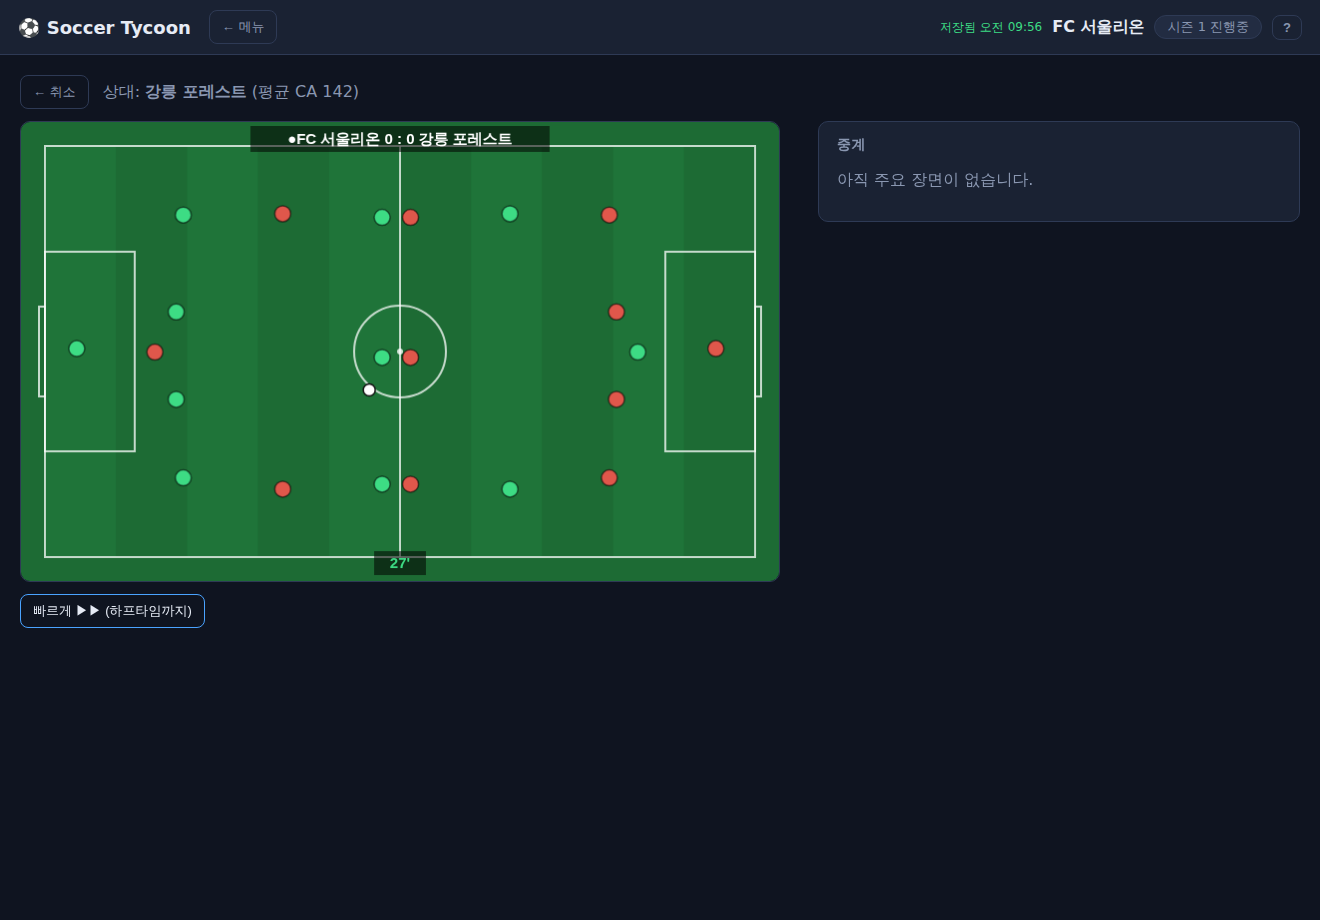
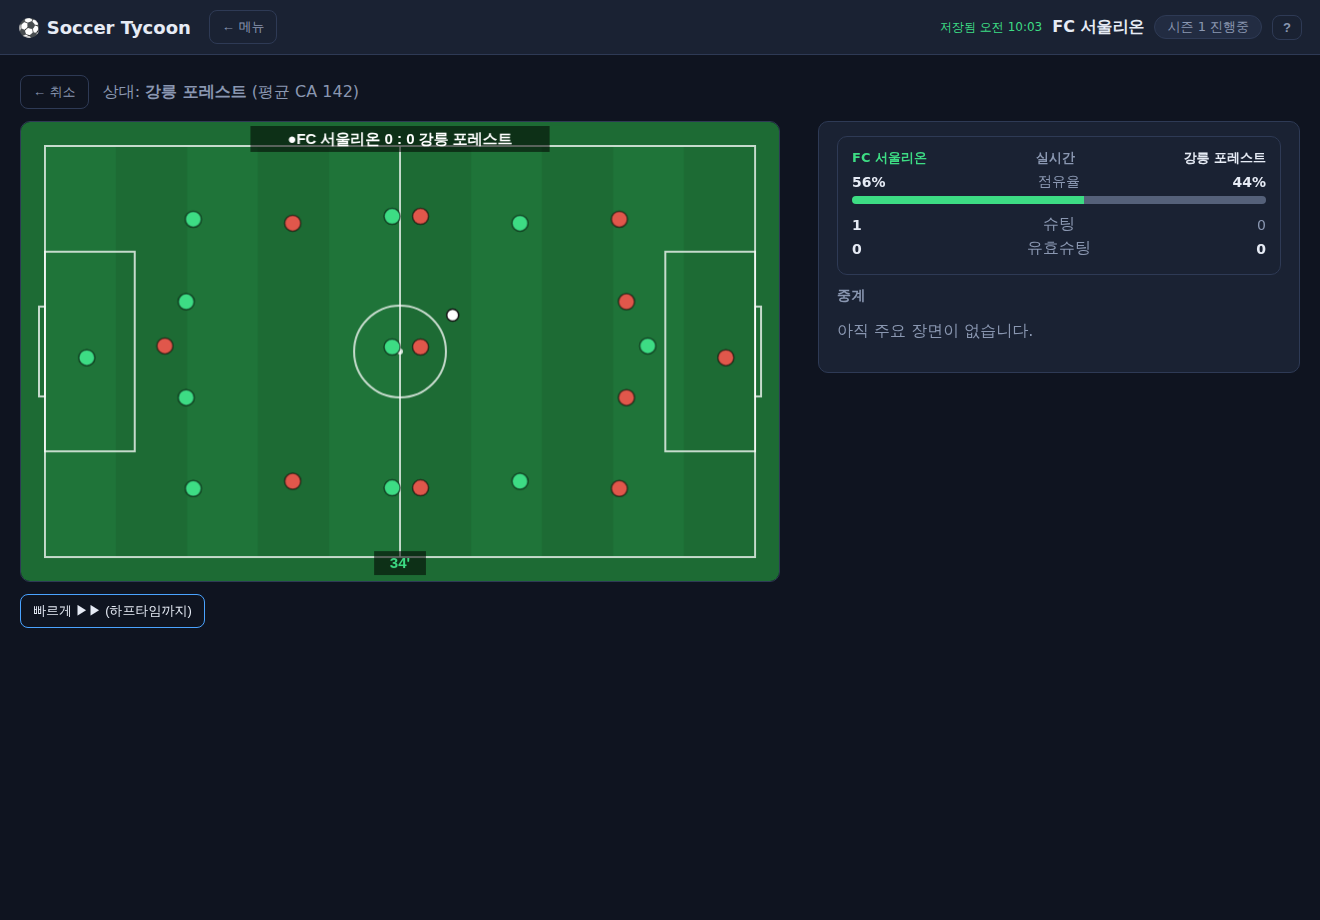
feat: 관전 중 실시간 경기 통계 패널
경기 관전 화면에 점유율·슈팅·유효슈팅 실시간 통계를 추가해
2D 뷰·프리뷰와 함께 관전 경험을 완성한다.

- engine/liveMatch: LiveMatch.stats() → LiveStats(점유율·슈팅·유효슈팅[골+선방]).
  진행 중 언제든 호출 가능. 종료 시 최종 MatchResult와 일치.
  liveMatch.test.ts에 불변식 테스트 추가(점유율 합 100·유효≤슈팅·최종 일치).
- app/WatchMatch: 매 분 stats() 갱신 → LiveStatsPanel(내 팀 강조 점유율 막대 +
  슈팅/유효슈팅 대결). 진행·하프타임 페이즈에 표시.
- README·design 문서 + 2D 관전 스크린샷 갱신.

engine 98 / app 8 / desktop 4 테스트 통과.

Claude-Session: https://claude.ai/code/session_0117rzD5JcoktrsoA8fWGnDA

diff --git a/packages/app/src/components/WatchMatch.tsx b/packages/app/src/components/WatchMatch.tsx
@@ -1,7 +1,7 @@
 import { useEffect, useRef, useState } from 'react';
 import {
   LiveMatch, HALF_TIME, MATCH_LENGTH, currentAbility,
-  type Club, type Tactic, type MatchEvent, type MatchResult,
+  type Club, type Tactic, type MatchEvent, type MatchResult, type LiveStats,
 } from '@soccer-tycoon/engine';
 import type { WatchSetup, MatchPreview as MatchPreviewData } from '../game.js';
 import { Tactics } from './Tactics.js';
@@ -46,6 +46,7 @@ export function WatchMatch({ watch, myClub, initialTactic, preview, onDone, onCa
   const [view, setView] = useState<View>({ minute: 0, score: [0, 0], ball: { x: 0.5, y: 0.5 }, goalFlash: null });
   const [feed, setFeed] = useState<MatchEvent[]>([]);
   const [tactic, setTactic] = useState<Tactic>(initialTactic);
+  const [stats, setStats] = useState<LiveStats>({ possession: [50, 50], shots: [0, 0], shotsOnTarget: [0, 0] });
 
   function applyMinute(target: number, evs: MatchEvent[]) {
     const last = evs[evs.length - 1];
@@ -54,6 +55,7 @@ export function WatchMatch({ watch, myClub, initialTactic, preview, onDone, onCa
       ? { x: last.side === 'home' ? 0.84 : 0.16, y: 0.28 + Math.random() * 0.44 }
       : { x: 0.4 + Math.random() * 0.2, y: 0.34 + Math.random() * 0.32 };
     setView({ minute: target, score: live.score(), ball, goalFlash: goal ? goal.side : null });
+    setStats(live.stats());
     const notable = evs.filter((e) => e.outcome === 'GOAL' || e.outcome === 'SAVE');
     if (notable.length) setFeed((f) => [...notable.reverse(), ...f]);
   }
@@ -136,18 +138,53 @@ export function WatchMatch({ watch, myClub, initialTactic, preview, onDone, onCa
           ) : phase === 'halftime' ? (
             <>
               <div className="ht-banner">하프타임 — 전술을 조정할 수 있습니다</div>
+              <LiveStatsPanel stats={stats} homeName={homeName} awayName={awayName} userSide={userSide} />
               <Tactics club={myClub} tactic={tactic} onChange={setTactic} />
             </>
           ) : phase === 'fulltime' ? (
             <FullTime result={live.result()} homeName={homeName} awayName={awayName} score={view.score} myClubId={myClub.id} />
           ) : (
             <div className="commentary">
+              <LiveStatsPanel stats={stats} homeName={homeName} awayName={awayName} userSide={userSide} />
               <h3>중계</h3>
               <Feed events={feed} userSide={userSide} />
             </div>
           )}
         </div>
       </div>
+    </div>
+  );
+}
+
+function LiveStatsPanel({
+  stats, homeName, awayName, userSide,
+}: { stats: LiveStats; homeName: string; awayName: string; userSide: 'home' | 'away' }) {
+  const [hp, ap] = stats.possession;
+  const rows: { label: string; h: number; a: number }[] = [
+    { label: '슈팅', h: stats.shots[0], a: stats.shots[1] },
+    { label: '유효슈팅', h: stats.shotsOnTarget[0], a: stats.shotsOnTarget[1] },
+  ];
+  return (
+    <div className="live-stats">
+      <div className="ls-head">
+        <span className={userSide === 'home' ? 'mine' : ''}>{homeName}</span>
+        <span className="muted small">실시간</span>
+        <span className={userSide === 'away' ? 'mine' : ''}>{awayName}</span>
+      </div>
+      <div className="ls-poss-nums">
+        <b>{hp}%</b><span className="muted small">점유율</span><b>{ap}%</b>
+      </div>
+      <div className="ls-poss-bar">
+        <div className={`ls-seg ${userSide === 'home' ? 'mine' : 'opp'}`} style={{ width: `${hp}%` }} />
+        <div className={`ls-seg ${userSide === 'away' ? 'mine' : 'opp'}`} style={{ width: `${ap}%` }} />
+      </div>
+      {rows.map((r) => (
+        <div className="ls-row" key={r.label}>
+          <span className={`ls-num ${r.h >= r.a ? 'lead' : ''}`}>{r.h}</span>
+          <span className="ls-label muted small">{r.label}</span>
+          <span className={`ls-num ${r.a >= r.h ? 'lead' : ''}`}>{r.a}</span>
+        </div>
+      ))}
     </div>
   );
 }

diff --git a/packages/engine/src/liveMatch.ts b/packages/engine/src/liveMatch.ts
@@ -11,6 +11,13 @@ import type { MatchEvent, MatchResult, Tactic } from './types.js';
 
 export const HALF_TIME = Math.floor(MATCH_LENGTH / 2); // 45분
 
+/** 진행 중 실시간 팀 통계(관전 패널용). [홈, 원정]. */
+export interface LiveStats {
+  possession: [number, number];
+  shots: [number, number];
+  shotsOnTarget: [number, number];
+}
+
 export class LiveMatch {
   private ctx: MatchContext;
   private current = 0; // 진행된 분
@@ -29,6 +36,22 @@ export class LiveMatch {
 
   score(): [number, number] {
     return [this.ctx.home.goals, this.ctx.away.goals];
+  }
+
+  /** 현재까지 실시간 통계(점유율·슈팅·유효슈팅). 유효슈팅=골+선방. */
+  stats(): LiveStats {
+    const { home, away, events } = this.ctx;
+    const totalTicks = home.possessionTicks + away.possessionTicks || 1;
+    const onTarget = (side: 'home' | 'away'): number =>
+      events.filter((e) => e.side === side && (e.outcome === 'GOAL' || e.outcome === 'SAVE')).length;
+    return {
+      possession: [
+        Math.round((home.possessionTicks / totalTicks) * 100),
+        Math.round((away.possessionTicks / totalTicks) * 100),
+      ],
+      shots: [home.shots, away.shots],
+      shotsOnTarget: [onTarget('home'), onTarget('away')],
+    };
   }
 
   /** 지정 분까지 진행하고, 그 구간에 발생한 이벤트만 반환. */

diff --git a/packages/engine/test/liveMatch.test.ts b/packages/engine/test/liveMatch.test.ts
@@ -53,6 +53,24 @@ describe('LiveMatch', () => {
     expect(goals).toBe(r.score[0] + r.score[1]);
   });
 
+  it('stats(): 점유율 합 100, 유효슈팅 ≤ 슈팅, 종료 시 최종 결과와 일치', () => {
+    const live = new LiveMatch(setup(321));
+    live.runUntil(30);
+    const mid = live.stats();
+    expect(mid.possession[0] + mid.possession[1]).toBe(100);
+    expect(mid.shotsOnTarget[0]).toBeLessThanOrEqual(mid.shots[0]);
+    expect(mid.shotsOnTarget[1]).toBeLessThanOrEqual(mid.shots[1]);
+
+    live.runToEnd();
+    const end = live.stats();
+    const r = live.result();
+    expect(end.shots).toEqual(r.shots);
+    expect(end.possession).toEqual(r.possession);
+    // 유효슈팅(골+선방)은 최소한 골 수 이상
+    expect(end.shotsOnTarget[0]).toBeGreaterThanOrEqual(r.score[0]);
+    expect(end.shotsOnTarget[1]).toBeGreaterThanOrEqual(r.score[1]);
+  });
+
   it('하프타임 전술 변경은 결과를 바꾼다(공격적으로 전환 시 다른 전개)', () => {
     const base = setup(2024);
     // 기준: 변경 없음

diff --git a/packages/app/src/styles.css b/packages/app/src/styles.css
@@ -479,3 +479,18 @@ h3 { font-size: 14px; margin: 0 0 10px; color: var(--muted); text-transform: upp
   pointer-events: none;
 }
 .pv-hint { margin: 14px 0 0; }
+
+/* 실시간 경기 통계 패널 */
+.live-stats { background: var(--panel); border: 1px solid var(--line); border-radius: 10px; padding: 12px 14px; margin-bottom: 12px; }
+.ls-head { display: flex; justify-content: space-between; align-items: center; font-size: 13px; font-weight: 600; margin-bottom: 6px; }
+.ls-head .mine { color: var(--accent); }
+.ls-poss-nums { display: flex; justify-content: space-between; align-items: center; font-size: 14px; }
+.ls-poss-bar { display: flex; height: 8px; border-radius: 4px; overflow: hidden; background: var(--panel-2); margin: 5px 0 10px; }
+.ls-seg.mine { background: var(--accent); }
+.ls-seg.opp { background: #55617a; }
+.ls-row { display: grid; grid-template-columns: 1fr auto 1fr; align-items: center; margin: 3px 0; }
+.ls-row .ls-num { font-size: 14px; color: var(--muted); }
+.ls-row .ls-num:first-child { text-align: left; }
+.ls-row .ls-num:last-child { text-align: right; }
+.ls-row .ls-num.lead { color: var(--text); font-weight: 700; }
+.ls-label { text-align: center; }

diff --git a/packages/engine/src/index.ts b/packages/engine/src/index.ts
@@ -2,7 +2,7 @@
 export * from './types.js';
 export { Rng } from './rng.js';
 export { simulateMatch, MATCH_LENGTH, type MatchSetup } from './simulateMatch.js';
-export { LiveMatch, HALF_TIME } from './liveMatch.js';
+export { LiveMatch, HALF_TIME, type LiveStats } from './liveMatch.js';
 export { computeTeamStrength, lineOf } from './teamStrength.js';
 export {
   playerDerived, currentAbility, isInjured, isSuspended, isAvailable,

diff --git a/docs/design.md b/docs/design.md
@@ -246,6 +246,7 @@ soccer-tycoon/
       빠르게 스킵, 하프타임 개입. LiveMatch 재개 로직 재사용.
       양 팀 선발 11명을 포메이션 좌표에 점으로 배치(내 팀/상대 색 구분),
       공 위치에 따라 블록 이동·미세 스웨이. 하프타임 전술 변경도 반영.
+      관전 중 실시간 통계 패널(점유율·슈팅·유효슈팅) — LiveMatch.stats().
 - [x] 선수 사기·재계약: 출전 시간 기반 사기(핵심 선수 벤치 시 불만), 시즌 경계 갱신.
       선수 상세에서 사기·시즌 출전 표시 + 계약 만료 임박 선수 재계약(계약금·임금인상).
 - [x] 경기 상세 통계: 점유율·슈팅·선수 평점(득점자 표시). 2D 관전 풀타임 +